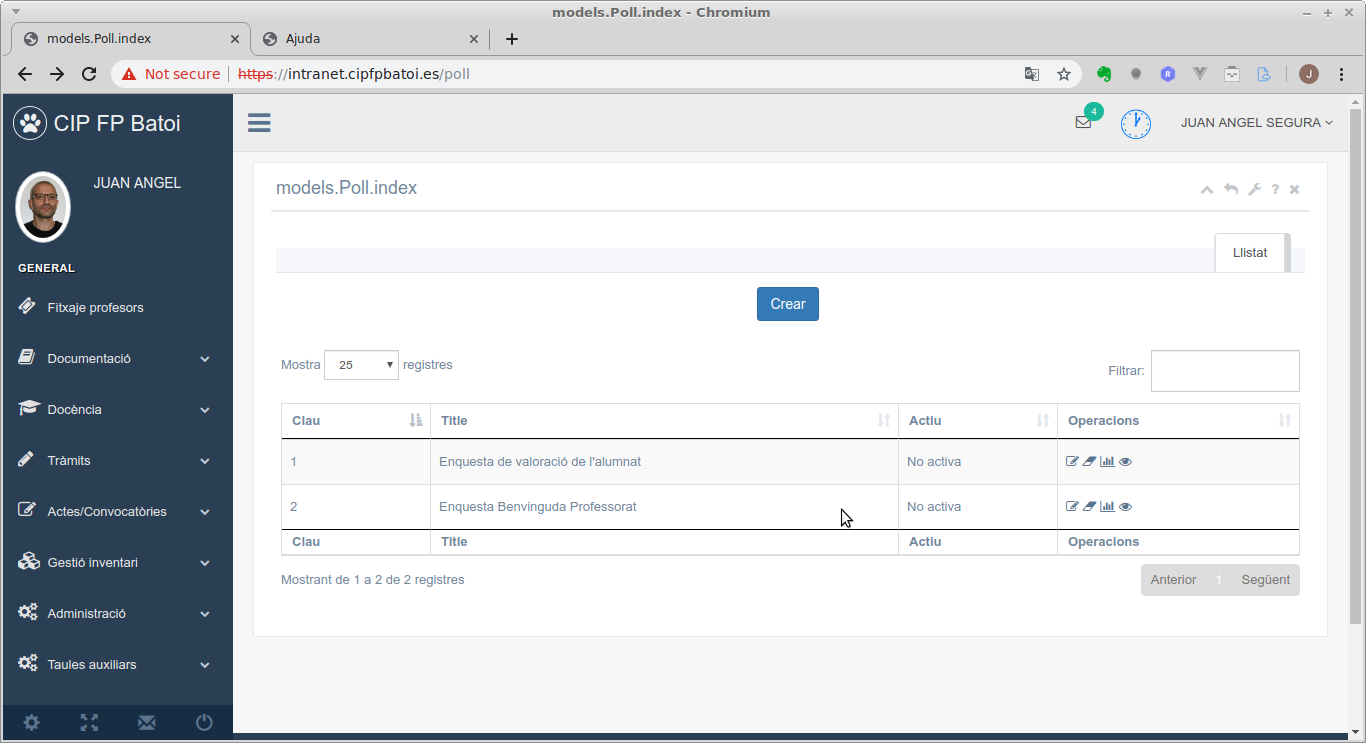
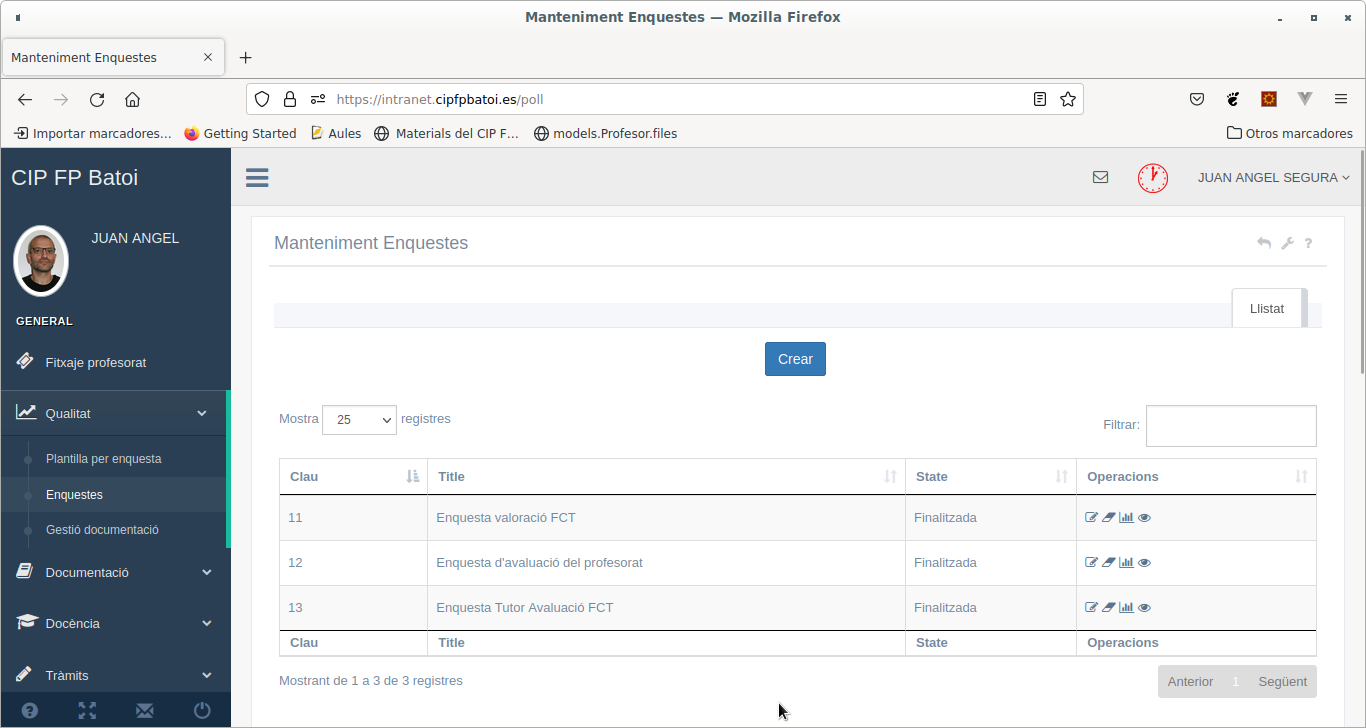
Canvis 2023

diff --git a/docs/manual-profe.md b/docs/manual-profe.md
@@ -2,45 +2,50 @@
 
 Índex de continguts:
 
-* [Entrada](#entrada)
-  * [Pàgina d'inici](#pàgina-dinici)
-  * [Control de presència](#control-de-presència)
-  * [Notificacions](#notificacions)
-* [Menú 'Documentació'](#menú-documentació)
-  * [Programacions](#programacions)
-  * [Gestió de Centre](#gestió-de-centre)
-  * [Informació de Centre](#informació-de-centre)
-  * [Actes](#actes)
-  * [Projectes](#projectes)
-* [Menú 'Docència'](#menú-docència)
-  * [Gestió de grups](#gestió-de-grups)
-  * [Claustre](#claustre)
-  * [Equip directiu](#equip-directiu)
-  * [Guàrdia](#guàrdia)
-    * [Fer la guàrdia](#fer-la-guàrdia)
-  * [Seguiments](#seguiments)
-  * [Programacions](#programacions)
-  * [Tancament de curs](#tancament-de-curs)
-* [Menú 'Tràmits'](#menú-tràmits)
-  * [Expedients](#expedients)
-  * [Activitats extraescolars](#activitats-extraescolars)
-    * [Alta de nova activitat](#alta-de-nova-activitat)
-  * [Comisions de servei](#comisions-de-servei)
-    * [Estat de una comissió](#estat-de-una-comissió)
-    * [Alta nova comissió](#alta-nova-comissió)
-  * [Notificació absències](#notif`i`cació-absències)
-  * [Gestió d'incidències](#gestió-dincidències)
-  * [Reserva aules](#reserva-aules)
-  * [Oblit birret](#oblit-birret)
-  * [Canviar horari](#canviar-horari)
-* [Menú 'Enquestes'](#menú-enquestes)
-* [Menú 'Actes/Convocatories'](#menú-actesconvocatories)
-  * [Gestió de reunions](#gestió-de-reunions)
-  * [Grups de treball](#grups-de-treball)
-* [Menú 'Enllaços externs'](#menú-enllaços-externs)
-* [Altres accions](#altres-accions)
-  * [Taules amb informació](#taules-amb-informació)
-  * [Editar el nostre perfil](#editar-perfil)
+- [Manual del professor](#manual-del-professor)
+  - [Entrada](#entrada)
+    - [Pàgina d'inici](#pàgina-dinici)
+    - [Control de presència](#control-de-presència)
+    - [Notificacions](#notificacions)
+  - [Menú 'Documentació'](#menú-documentació)
+    - [Programacions](#programacions)
+    - [Gestió de Centre](#gestió-de-centre)
+    - [Informació de Centre](#informació-de-centre)
+    - [Actes](#actes)
+    - [Projectes](#projectes)
+  - [Menú 'Docència'](#menú-docència)
+    - [Gestió de grups](#gestió-de-grups)
+    - [Claustre](#claustre)
+    - [Equip directiu](#equip-directiu)
+    - [Guàrdia](#guàrdia)
+      - [Fer la guàrdia](#fer-la-guàrdia)
+    - [Seguiments](#seguiments)
+    - [Programacions](#programacions-1)
+    - [Tancament de curs](#tancament-de-curs)
+  - [Menú 'Tràmits'](#menú-tràmits)
+    - [Expedients](#expedients)
+    - [Activitats extraescolars](#activitats-extraescolars)
+      - [Alta de nova activitat](#alta-de-nova-activitat)
+    - [Comissions de servei](#comissions-de-servei)
+      - [Estat de una comissió](#estat-de-una-comissió)
+      - [Alta nova comissió](#alta-nova-comissió)
+    - [Notificació absències](#notificació-absències)
+    - [Gestió d'incidències](#gestió-dincidències)
+    - [Reserva aules](#reserva-aules)
+    - [Oblit birret](#oblit-birret)
+    - [Canviar horari](#canviar-horari)
+  - [Menú 'Enquestes'](#menú-enquestes)
+    - [Resultats](#resultats)
+    - [Realitzar](#realitzar)
+    - [Gestió documentació](#gestió-documentació)
+  - [Menú 'Actes/Convocatories'](#menú-actesconvocatories)
+    - [Gestió de reunions](#gestió-de-reunions)
+    - [Grups de treball](#grups-de-treball)
+  - [Menú 'Enllaços externs'](#menú-enllaços-externs)
+  - [Altres accions](#altres-accions)
+    - [Taules amb informació](#taules-amb-informació)
+    - [Editar perfil](#editar-perfil)
+      - [Fitxers personals](#fitxers-personals)
 
 
 ## Entrada
@@ -266,7 +271,8 @@ Es vol utilitzar la intranet del Centre per a gestionar diferents expedients del
 
 Quan creem un nou expedient hem d'indicar l'alumne, el tipus d'expedient i una explicació. Els tipus que tenim actualment són:
 
-* Pérdua avaluació contínua: per a gestionar la predua d'avaluació contínua de l'alumne a un mòdul per faltes d'assistència. Només es poden tindre en compte les faltes marcades en Ítaca.
+* Baixa inasistència: permet donar de baixa a un alumne per faltes d'asistència segons la normativa
+* Pérdua avaluació contínua: per a gestionar la predua d'avaluació contínua de l'alumne a un mòdul per faltes d'assistència. Tant ací com en el cas anterior només es poden tindre en compte les faltes marcades en Ítaca.
 * Part d'amonestació: per a incoar un part d'amonestació a l'alumne
 
 ![Expedients](./img/ajuda/expediente.png)
@@ -452,11 +458,20 @@ Podem fer canvis totes les vegades que vulguem fins que el nou horari siga aprov
 Podem continuar fent canvis fins que Caporalia accepte la nostra proposta. En eixe moment l'estat canvia a **'Aprovat'** i ja no podem fer més canvis. Encara que estiga aprovat, el nou horari no entra en vigor fins que ens ho indiquen des de Caporalia (normalment a Març).
 
 ## Menú 'Enquestes'
-Des d'ací podem accedir als resultats de les diferents enquestes passades al nostre alumnat.
+Ací tenim els documents relacionats amb la qualitat així com les diferents enquestes. Hi ha 3 submenús:
+
+### Resultats
+Des d'ací podem accedir als resultats de les diferents enquestes passades al nostre alumnat:
 
 ![Enquestes](./img/ajuda/enquestes.png)
 
-En la taula tenim les enquestes que el/la tutor/a o direcció han passat al nostre alumnat.
+En cada enquesta tenim botons per a vore les dades i els resultats.
+
+### Realitzar
+Des d'ací crear noves enquestes de valoració del professorat (si som tutors), de valoració de la FCT (si som tutors de FCT), d'activitats extraescolars, etc.
+
+### Gestió documentació
+Ací tenim els diferents documents per a la gestió de la qualitat en el Centre.
 
 ## Menú 'Actes/Convocatories'
 Ací trobem informació sobre les reunions de tot tipus i els Grups de treball als que pertanyem.
@@ -495,6 +510,18 @@ Baix de la taula podem veure quins registres estem veient ('Mostrant de 26 a 50 
 Moltes pàgines tenen a la part superior dreta 2 pestanyes per a poder veure la informació en forma de taula (**Llistat**) o de **Mosaic**.
 
 ### Editar perfil
-Des del botó de 'Editar perfil' podem canviar el nostre correu electrònic i la nostra foto.
+Des del botó de 'Editar perfil' podem canviar algunes opcions com:
+- si volem que es mostre el nostre telèfon al companys en la intranet
+- el idioma per defecte de la intranet
+- el nostre correu electrònic
 
 ![Editar perfil](./img/ajuda/08-perfil-modificar.png)
+
+#### Fitxers personals
+A més de pujar la nostra foto de perfil a intranet des d'ací podem estabir altres opcions com:
+- **Imatge**: és per a pujar la nostra foto a la intranet
+- **Rúbrica**: podem pujar una imatge amb la nostra signatura per a que s'incloga en les convocatòries i altres documents de la intranet. És útil sobre tot per als tutors
+- **Peu email**: ací podem pujar una imatge que s'inclourà en els emails que s'envien a alumnes i empreses (per a la FCT)
+- **Certificat Digital**: podem pujar el nostre certificat digital per a signar la documentació de les FCT (útil per als tutors de FCT)
+
+![Fitxers personals](./img/ajuda/08-fitxers-personals.png)

diff --git a/docs/manual-tutor.md b/docs/manual-tutor.md
@@ -1,17 +1,24 @@
 # Manual del tutor
 Índex de continguts
-* [Introducció](#introducció)
-* [Menú 'Docència' → 'Gestió dels grups'](#men%C3%BA-docència--gesti%C3%B3-dels-grups)
-* [Menú 'Tràmits' → 'Expedients'](#men%C3%BA-tr%C3%A0mits--expedients)
-* [Menú 'Actes/Convocatòries' → 'Gestió de reunions'](#menú-actesconvocatòries--gestió-de-reunions)
-  * [Nova reunió](#nova-reunió)
-  * [Gestionar les reunions](#gestionar-les-reunions)
-  * [Acta de la reunió](#acta-de-la-reunió)
-* [Menú 'Tutor'](#menú-tutor)
-  * [Seguiments](#seguiments)
-  * [Tutories](#tutories)
-* [Menú 'Pràctiques'](#menú-pràctiques)
-* [Menú 'FP Dual'](#menú-fp-dual)
+- [Manual del tutor](#manual-del-tutor)
+  - [Introducció](#introducció)
+  - [Menú 'Docència' → 'Gestió dels grups'](#menú-docència--gestió-dels-grups)
+  - [Menú 'Tràmits' → 'Expedients'](#menú-tràmits--expedients)
+    - [Expedients](#expedients)
+    - [Remissió a Orientació](#remissió-a-orientació)
+  - [Menú 'Actes/Convocatòries' → 'Gestió de reunions'](#menú-actesconvocatòries--gestió-de-reunions)
+    - [Nova reunió](#nova-reunió)
+    - [Gestionar les reunions](#gestionar-les-reunions)
+    - [Acta de la reunió](#acta-de-la-reunió)
+  - [Menú 'Actes/Convocatòries' → 'Gestor documental'](#menú-actesconvocatòries--gestor-documental)
+  - [Menú 'Tutor'](#menú-tutor)
+    - [Seguiments](#seguiments)
+    - [Tutories](#tutories)
+  - [Menú 'Pràctiques'](#menú-pràctiques)
+    - [Menú 'Empresa'](#menú-empresa)
+    - [Centres de treball](#centres-de-treball)
+    - [FCTs](#fcts)
+  - [Menú 'FP Dual'](#menú-fp-dual)
 
 
 ## Introducció
@@ -34,18 +41,20 @@ A més, quan entrem a **Vore els alumnes** del nostre grup apareixen noves icone
 
 ## Menú 'Tràmits' → 'Expedients'
 ### Expedients
-És igual que per al professor però al crear un nou expedient el tutor pot triar entre 3 tipus més:
-
-![Nou expedient reunió](img/tutor/07-nou-expedient.png)
-
-Els tipus que tenim actualment són:
-* **Baixa inasistència**: permet donar de baixa a un alumne per faltes d'asistència segons la normativa
-* Pérdua avaluació contínua: per a gestionar la predua d'avaluació contínua de l'alumne a un mòdul per faltes d'assistència. Tant ací com en el cas anterior només es poden tindre en compte les faltes marcades en Ítaca.
-* **Remisió al departament d'Orientació**: envia un avís als orientadors de que han de atendre a aquest alumne. Més avant l'orientador es posarà en contacte amb el tutor per a concretar quan es farà
-* Part d'amonestació: per a incoar un part d'amonestació a l'alumne
+És igual que per al professor però al crear un nou expedient el tutor pot triar també 
+* **Baixa per inasistència** que permet donar de baixa a un alumne per faltes d'asistència segons la normativa
 * **Informe d'exempció FCT**: si un alumne sol·licita l'exempció de les FCT hem d'omplir aquest informe.
 
 Una vegada omplit **caldrà avisar a direcció de la tramitació de l'expedient** polsant el botó del sobre i ja s'encarregan de resoldre'l.
+
+![Nou expedient reunió](img/tutor/07-nou-expedient.png)
+
+### Remissió a Orientació
+Des d'ací podem derivar alumnes per a que siguen tractats pel departament d'Orientació. Per a cada alumne creem un 'Qüestionari de derivació' on indiquem el motiu i l'orientador responsable esposarà en contacte en el tutor o directament en l'alumne.
+
+En la taula podem vore totes les derivacions fetes i el resultat de les mateixes.
+
+![Remissió a Orientació](img/tutor/orientacio .png)
 
 ## Menú 'Actes/Convocatòries' → 'Gestió de reunions'
 El tutor tindrà que convocar diferents reunions al llarg del curs. 
